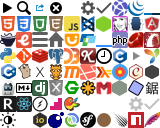
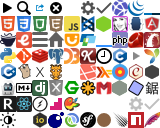
Remove MaxCDN documentation

Changed region(s): [[0.4062, 0.5, 0.5, 0.625]]

diff --git a/assets/stylesheets/global/_icons.scss b/assets/stylesheets/global/_icons.scss
@@ -65,7 +65,7 @@
 ._icon-go:before            { background-position: -1rem -4rem; }
 ._icon-express:before       { background-position: -2rem -4rem; }
 ._icon-grunt:before         { background-position: -3rem -4rem; }
-._icon-maxcdn:before        { background-position: -4rem -4rem; }
+
 ._icon-laravel:before       { background-position: -5rem -4rem; }
 ._icon-haskell:before       { background-position: -6rem -4rem; }
 ._icon-requirejs:before     { background-position: -7rem -4rem; }

diff --git a/assets/stylesheets/application-dark.css.scss b/assets/stylesheets/application-dark.css.scss
@@ -46,7 +46,6 @@
         'pages/knockout',
         'pages/laravel',
         'pages/lua',
-        'pages/maxcdn',
         'pages/mdn',
         'pages/meteor',
         'pages/modernizr',

diff --git a/assets/stylesheets/application.css.scss b/assets/stylesheets/application.css.scss
@@ -46,7 +46,6 @@
         'pages/knockout',
         'pages/laravel',
         'pages/lua',
-        'pages/maxcdn',
         'pages/mdn',
         'pages/meteor',
         'pages/modernizr',
